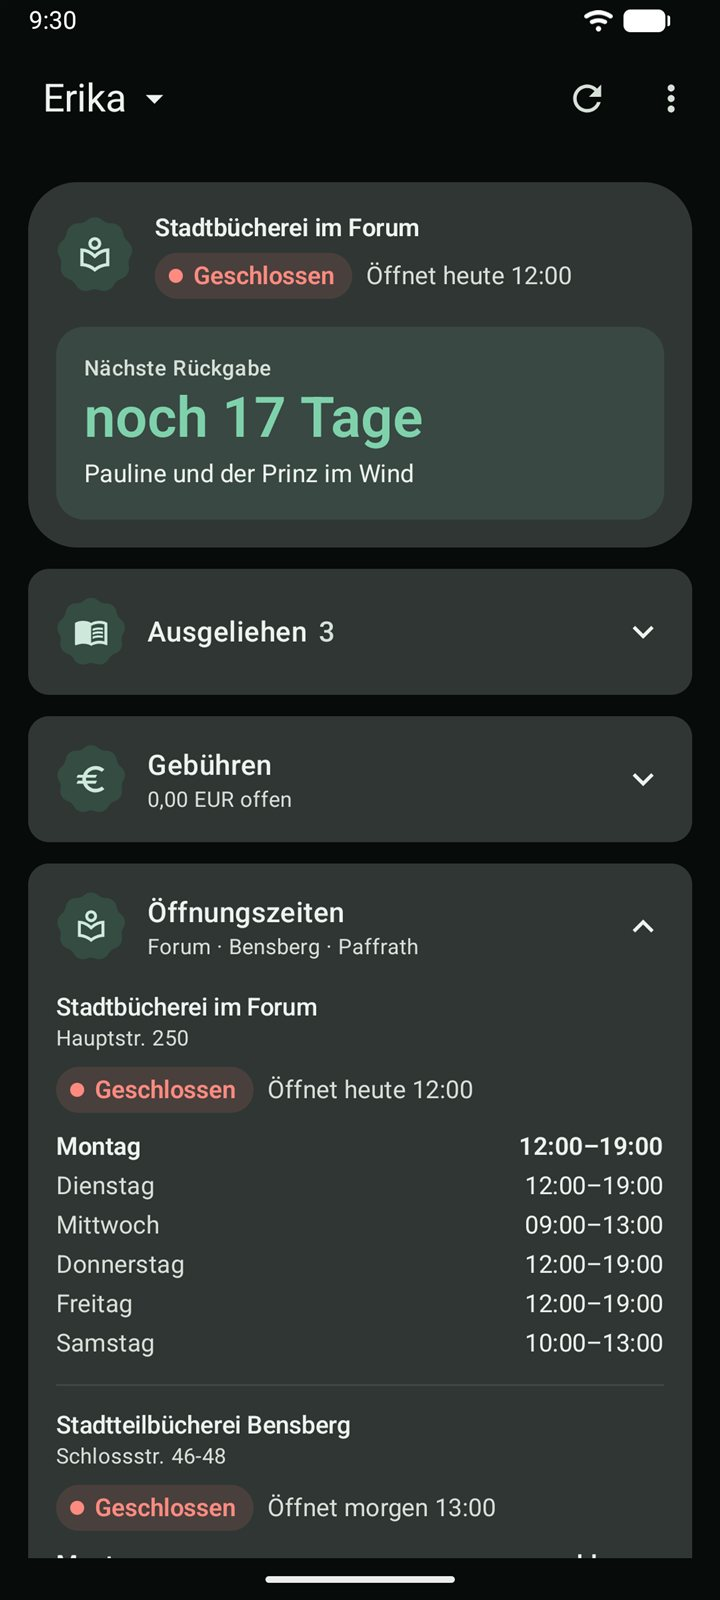
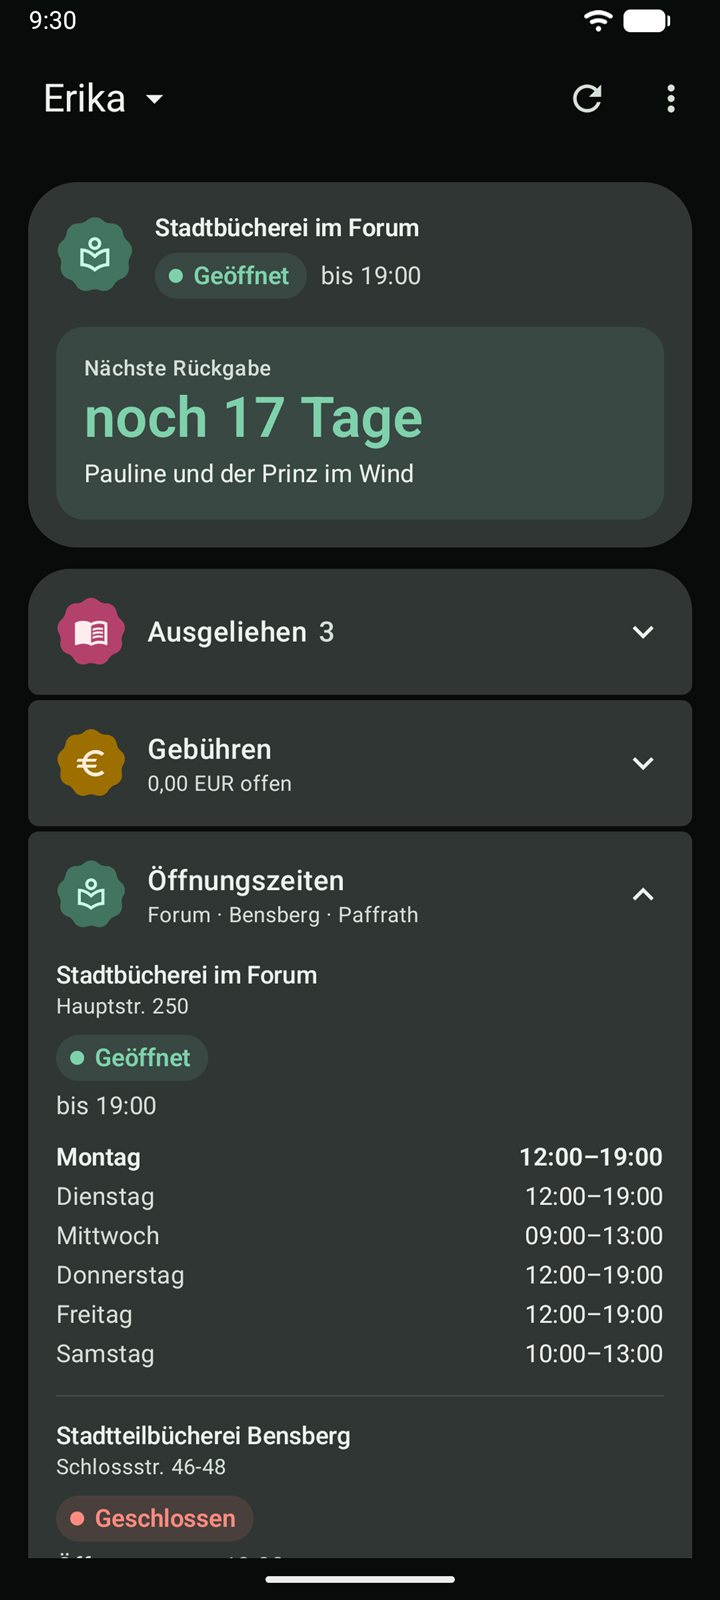
Release 1.10.3
- Farbige Symbole je Karte und Medienart (Palette mit zehn Farben)
- Karten als zusammenhaengende Liste
- Oeffnungszeiten: naechste Oeffnung unter dem Etikett
- README-Screenshots aktualisiert (anonymisierte Testdaten)

diff --git a/README.md b/README.md
@@ -14,7 +14,7 @@ Frist abläuft.
 
 | Übersicht (hell) | Übersicht (dunkel) | Öffnungszeiten | Einstellungen |
 |:---:|:---:|:---:|:---:|
-| <img src="docs/screenshots/01-uebersicht-hell.jpg" width="200" alt="Übersicht mit nächster Rückgabe und ausgeliehenen Medien im hellen Design"> | <img src="docs/screenshots/02-uebersicht-dunkel.jpg" width="200" alt="Dieselbe Übersicht im dunklen Design"> | <img src="docs/screenshots/03-oeffnungszeiten.jpg" width="200" alt="Öffnungszeiten der Standorte mit aktuellem Status"> | <img src="docs/screenshots/04-einstellungen.jpg" width="200" alt="Einstellungen für Erinnerungen, Bücherei und Darstellung"> |
+| <img src="docs/screenshots/01-uebersicht-hell.jpg" width="200" alt="Übersicht mit nächster Rückgabe und den Karten mit farbigen Symbolen im hellen Design"> | <img src="docs/screenshots/02-uebersicht-dunkel.jpg" width="200" alt="Übersicht mit aufgeklappten Ausleihen im dunklen Design"> | <img src="docs/screenshots/03-oeffnungszeiten.jpg" width="200" alt="Öffnungszeiten der Standorte mit aktuellem Status"> | <img src="docs/screenshots/04-einstellungen.jpg" width="200" alt="Einstellungen für Erinnerungen, Bücherei und Darstellung"> |
 
 
 ## Installation
@@ -61,7 +61,7 @@ Versionen sollten funktionieren, sind aber nicht ausprobiert.
 
 | Funktion | Details |
 |---|---|
-| **Ausgeliehene Medien** | Titel, Verfasser, Medienart (Buch, Bilderbuch, Tonie, Spiel …), Zweigstelle, Cover (ohne Cover das Symbol der Medienart). Antippen öffnet die Detailseite im Browser |
+| **Ausgeliehene Medien** | Titel, Verfasser, Medienart (Buch, Bilderbuch, Tonie, Spiel …), Zweigstelle, Cover (ohne Cover das farbige Symbol der Medienart). Antippen öffnet die Detailseite im Browser |
 | **Countdown** | Farbige Ampel bis zur Rückgabe: rot überfällig, orange ≤ 2 Tage, gelb ≤ 7 Tage, grün ab 8 Tagen |
 | **Verlängern** | Einzeln oder alle verlängerbaren Medien auf einmal. Nicht verlängerbare Medien zeigen den Grund („Die maximale Anzahl der Verlängerungen ist erreicht.") |
 | **Gebühren** | Offene Gebühren, Einzahlungen, Saldo, Einzelposten |

diff --git a/CHANGELOG.md b/CHANGELOG.md
@@ -7,6 +7,18 @@ Versionen nur zwei Stellen, ab 1.8.1 immer drei.
 
 ## [Unreleased]
 
+## [1.10.3] - 2026-10-19
+
+### Geändert
+- Jede Karte und jede Medienart hat ein Symbol in eigener Farbe. Die Palette
+  mit zehn Farben (Limette, Himbeere, Graugrün, Mint, Koralle, Senf, Petrol,
+  Ozeanblau, Lavendel, Pflaume) ist im hellen wie im dunklen Design gut
+  sichtbar – vorher hoben sich die Symbole im hellen Design kaum ab.
+- Die Karten unter der Übersicht stehen als zusammenhängende Liste: eng
+  gestapelt, außen stark und innen leicht gerundet.
+- Öffnungszeiten: die nächste Öffnung bzw. „bis …“ steht unter dem Etikett.
+- Medien ohne Cover zeigen das Symbol ihrer Medienart in deren Farbe.
+
 ## [1.10.2] - 2026-10-19
 
 ### Geändert
@@ -152,7 +164,8 @@ Erste veröffentlichte Version.
 - Mehrere Ausweise mit Konto-Umschalter.
 - Erinnerungen vor Fristende und Warnung vor Ausweisablauf.
 
-[Unreleased]: https://github.com/klggr81/Stadtbuecherei-GL-App/compare/v1.10.2...HEAD
+[Unreleased]: https://github.com/klggr81/Stadtbuecherei-GL-App/compare/v1.10.3...HEAD
+[1.10.3]: https://github.com/klggr81/Stadtbuecherei-GL-App/compare/v1.10.2...v1.10.3
 [1.10.2]: https://github.com/klggr81/Stadtbuecherei-GL-App/compare/v1.10.1...v1.10.2
 [1.10.1]: https://github.com/klggr81/Stadtbuecherei-GL-App/compare/v1.10.0...v1.10.1
 [1.10.0]: https://github.com/klggr81/Stadtbuecherei-GL-App/compare/v1.9.1...v1.10.0
